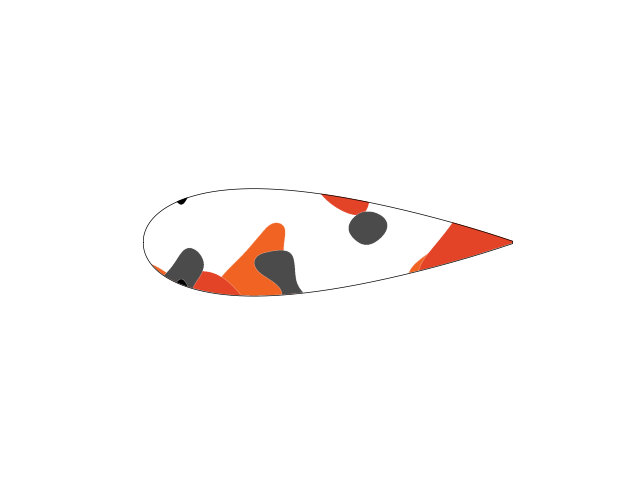
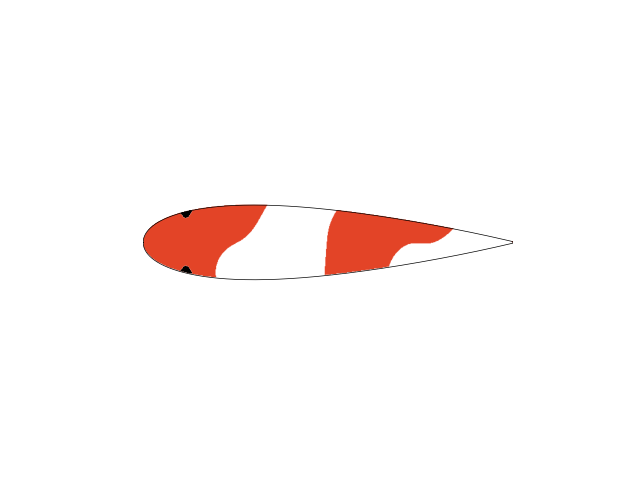
Added queue list for thread management

Changed region(s): [[0.2188, 0.375, 0.8125, 0.625]]

diff --git a/main.py b/main.py
@@ -1,3 +1,4 @@
+from asyncio.windows_events import NULL
 from concurrent.futures import thread
 import tkinter as tk
 from airfoil import *
@@ -5,8 +6,9 @@ import numpy as np
 import time
 from Koi import Koi
 from tkKoi import tkKoi
-from queue import Empty, Queue
+from queue import Queue
 from threading import Thread
+
 
 red1 = np.array((227, 68, 39, 255))
 orange1 = np.array((241, 99, 35, 255))
@@ -16,56 +18,74 @@ white = np.array((255, 255, 255, 255))
 transparent = np.array((255, 255, 255, 0))
 eyeblack = np.array((0, 0, 0, 255))
 
-WIDTH = 800
-HEIGHT = 800
+color_list = [ red1,
+                orange1,
+                yellow1,
+                black1
+                ]
+
+WIDTH = 1000
+HEIGHT = 1000
 MARGIN = 50
 
-queue = Queue(maxsize=1)
+queue = []
+t = []
+fish = []
+tk_fish = []
+new_loc = []
+
 
 def main():
-    fish1 = Koi()
 
-    color_layers2 = [orange1, black1]
-    fish2 = Koi("Fae", color_layers2)
+    for i in range(100):
+        color_num = np.random.randint(1,3)
+        layer = None
+        layer = []
+        for j in range(color_num):
+            layer.append(color_list[np.random.randint(0,4)])
+        fish.append(Koi(("Koi_"+ str(i + 1)), layer))
     
-    color_layers3=[red1, orange1]
-    fish3 = Koi("Kuri", color_layers3)
-
-    color_layers4=[red1, black1]
-    fish4 = Koi("Leo", color_layers4)
-
     window = tk.Tk()
-    canvas =  tk.Canvas(window, width=WIDTH, height=HEIGHT)
+    canvas =  tk.Canvas(window, width=WIDTH, height=HEIGHT, bg='skyblue')
     canvas.pack()
 
-    tk_fish1 = tkKoi(window, canvas, 550, 550, fish1.filename)
-    t = Thread(target=new_location, args=(np.random.randint(2,4),))
-    new_location(0)
+    for i in range(len(fish)):
+        x, y = random_location()
+        tk_fish.append(tkKoi(window, canvas, x, y, fish[i].filename))
+        t.append(Thread(target=new_location, args=(np.random.randint(2,4),)))
+        queue.append(Queue(maxsize=1))
+        new_location(i, 0)
+        new_loc.append(None)
 
     while True:
+        for i in range(len(fish)):
+            if queue[i].empty():
+                if not t[i].is_alive():
+                    t[i] = None
+                    t[i] = Thread(target=new_location, args=(i,np.random.randint(2,12),))
+                    t[i].start()
+                    print("Fish " + str(i) + " change location")
+            else:
+                new_loc[i] = queue[i].get()
 
-        if queue.empty():
-            if not t.is_alive():
-                t = None
-                t = Thread(target=new_location, args=(np.random.randint(2,12),))
-                t.start()
-        else:
-            new_loc = queue.get()
-            print(new_loc)
+            tk_fish[i].move(new_loc[i])
 
-        tk_fish1.move(new_loc)
         window.update()
         time.sleep(0.01)
 
     window.mainloop()
 
 
-def new_location(delay : int):
+def new_location(q_index : int, delay : int):
+    time.sleep(delay)
+    queue[q_index].put(random_location())
+
+
+def random_location():
     x = np.random.randint(MARGIN, WIDTH - MARGIN)
     y = np.random.randint(MARGIN, HEIGHT - MARGIN)
-    time.sleep(delay)
-    queue.put([x, y])
-
+    print(x, y)
+    return [x, y]
 
 if __name__== "__main__":
     main()

diff --git a/tkKoi.py b/tkKoi.py
@@ -8,14 +8,14 @@ class tkKoi:
         self.master = master
         self.canvas = canvas
         self.temp_image = Image.open(image)
-        self.temp_image = self.temp_image.resize((75, 75))
+        self.temp_image = self.temp_image.resize((90, 90))
 
         self.koi_image = ImageTk.PhotoImage(self.temp_image, master = self.master)
         self.image = self.canvas.create_image(x, y, image=self.koi_image)
         self.velocity = -1.0
         self.angle = 0.0
         self.target_pos = 0, 0
-        self.has_target = False
+        self.age = 0
 
 
     def move(self, destination : tuple):
@@ -33,7 +33,9 @@ class tkKoi:
             target_angle = -math.degrees(math.atan(dy/dx))
         elif dx < 0 and dy < 0:
             target_angle = -math.degrees(math.atan(dy/dx))
-        
+        else:
+            target_angle = 0
+
         temp_angle = self.angle
         if temp_angle == 0:
             temp_angle += 360
@@ -43,7 +45,6 @@ class tkKoi:
                 self.angle += 1
             else:
                 self.angle -= 1
-
             self.angle %= 360
 
         x1 += self.velocity*math.sin(math.radians(90 + self.angle))
@@ -51,22 +52,3 @@ class tkKoi:
 
         self.koi_image = ImageTk.PhotoImage(self.temp_image.rotate(self.angle), master = self.master)
         self.image = self.canvas.create_image(x1, y1, image=self.koi_image)
-
-
-    def reached_destination(self) -> bool:
-        x, y = self.canvas.coords(self.image)
-        temp = self.distance(x, y, self.target_pos[0], self.target_pos[1]) < 5.0
-        
-        if temp:
-            self.has_target = False
-        else:
-            self.has_target = True
-
-        return temp
-
-
-    def distance(self, x1 : float, y1 : float, x2 : float, y2 : float) -> float:
-        dx = x1 - x2
-        dy = y1 - y2
-        return (dx**2 + dy**2)**0.5
-

diff --git a/Koi.py b/Koi.py
@@ -25,7 +25,7 @@ KOI_THICKNESS_MIN = 0.18
 
 
 class Koi:
-    def __init__(self, name="you", color_layers : list = [red1]):
+    def __init__(self, name : string="Koi", color_layers : list=[red1]):
         self.name = name
         self.thickness = random.uniform(KOI_THICKNESS_MIN, KOI_THICKNESS_MAX)
         x1 = np.linspace(0, WIDTH, WIDTH * 4)
@@ -41,7 +41,7 @@ class Koi:
         
         for i in range(len(color_layers)):
             self.seed.append(random.randint(1,999999))
-            self.octave.append(random.randint(1,6))
+            self.octave.append(random.randint(2,8))
             self.thres.append(random.uniform(-0.18, 0.2))
             is_first_layer = False
             if i == 0:
